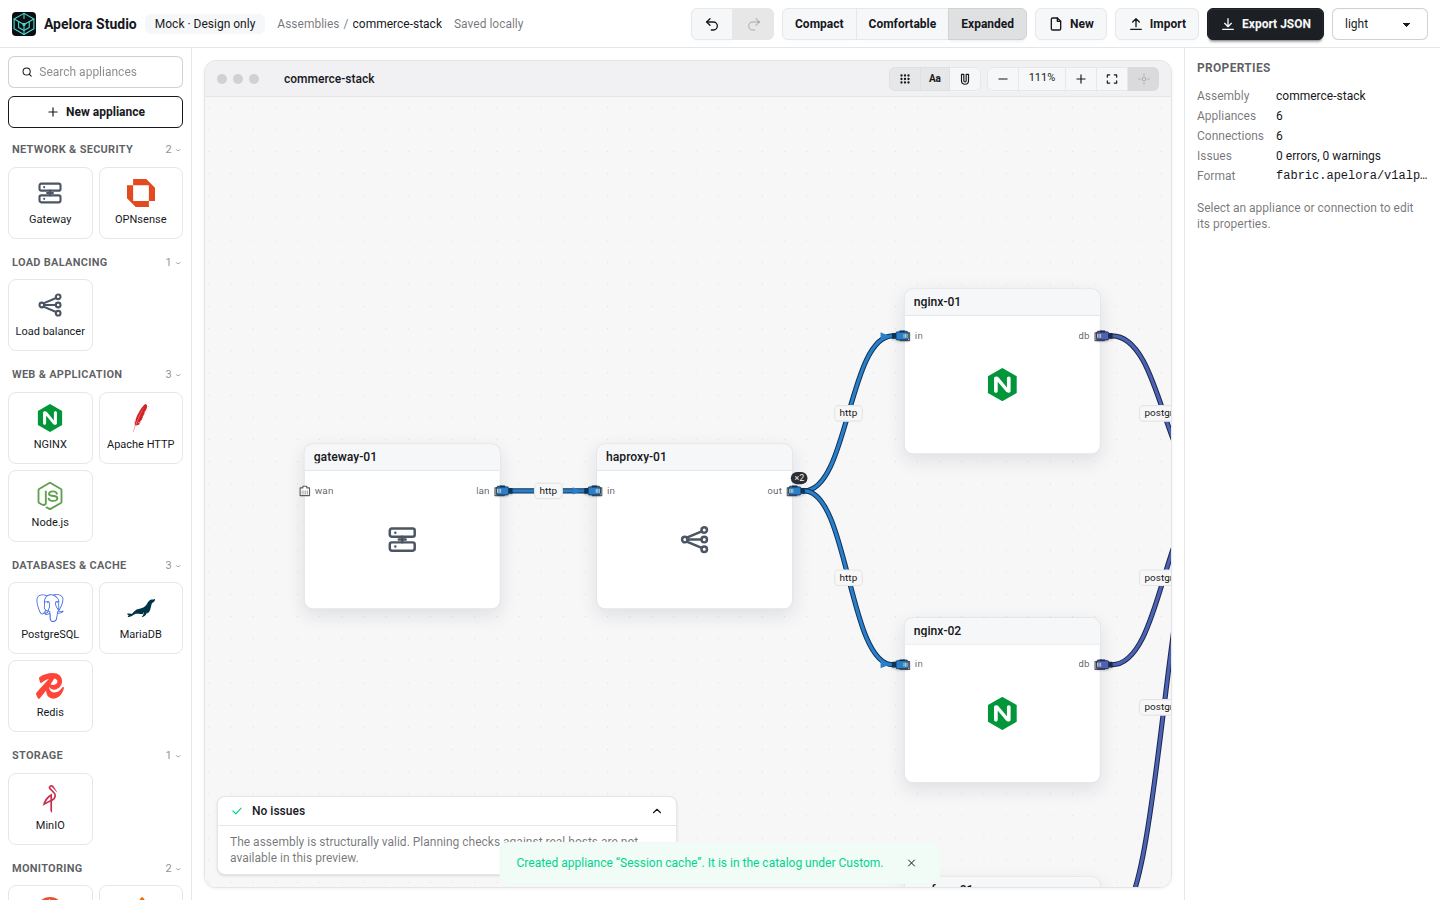
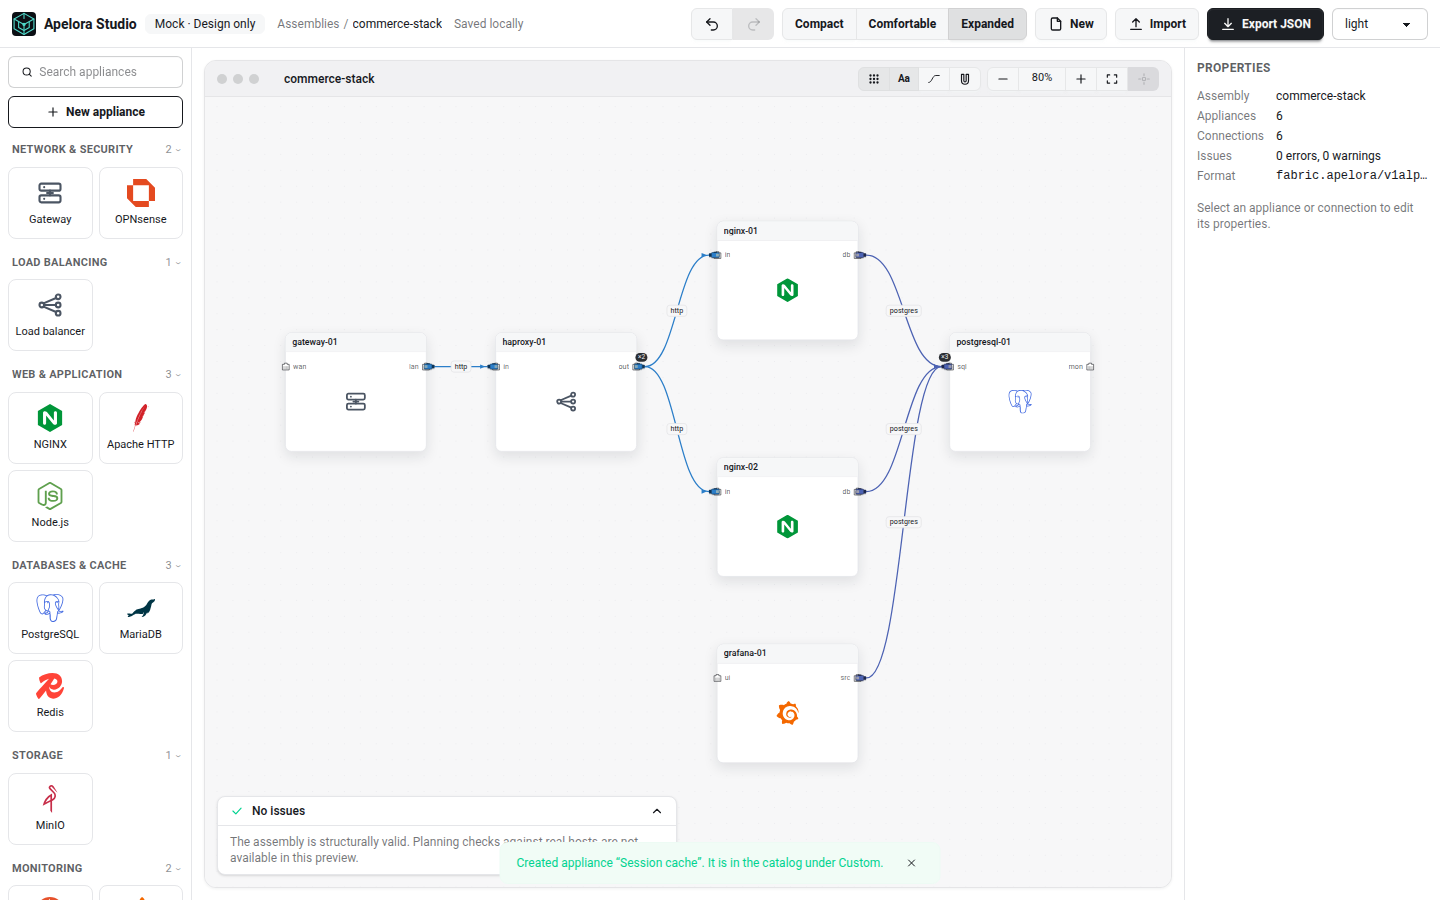
Studio: thin line cables by default with small plug heads; optional patch-cable style

diff --git a/apps/studio/src/styles/index.css b/apps/studio/src/styles/index.css
@@ -104,7 +104,13 @@ body { overflow: hidden; }
 .react-flow__resize-control.apl-resize-control { background: transparent; border: 0; width: 16px; height: 16px; transform: translate(-4px, -4px); }
 
 /* ---- cables ---- */
-.react-flow__edge .apl-cable { stroke-linecap: round; fill: none; }
+.react-flow__edge .apl-cable { stroke-linecap: round; fill: none; stroke-width: 1.6; }
+.react-flow__edge.selected .apl-cable, .react-flow__edge:hover .apl-cable { stroke-width: 2.4; }
+.react-flow__edge .apl-cable-outline { stroke-width: 0; }
+/* Optional heavier patch-cable look. */
+.apl-canvas-frame[data-cable="cable"] .react-flow__edge .apl-cable { stroke-width: 2.8; }
+.apl-canvas-frame[data-cable="cable"] .react-flow__edge .apl-cable-outline { stroke-width: 4.6; }
+.apl-canvas-frame[data-cable="cable"] .react-flow__edge.selected .apl-cable-outline { stroke-width: 5.6; }
 .react-flow__edge:hover .apl-cable-outline, .react-flow__edge.selected .apl-cable-outline { filter: drop-shadow(0 0 3px color-mix(in oklab, var(--color-base-content) 35%, transparent)); }
 .react-flow__edge .apl-cable-outline { stroke-linecap: round; transition: filter 120ms ease; }
 .apl-cable-invalid { stroke-dasharray: 6 4; }
@@ -113,9 +119,9 @@ body { overflow: hidden; }
   position: absolute; pointer-events: none; font-size: 9px; line-height: 1; padding: 2px 4px; border-radius: 4px;
   background: var(--apl-canvas); border: 1px solid var(--apl-canvas-border); color: var(--color-base-content);
 }
-.apl-plug { position: absolute; top: 50%; width: 16px; height: 10px; transform: translateY(-50%); pointer-events: none; overflow: visible; filter: drop-shadow(0 1px 1px rgba(20,28,38,0.25)); }
-.apl-plug[data-side="input"] { left: -7px; }
-.apl-plug[data-side="output"] { right: -7px; transform: translateY(-50%) scaleX(-1); }
+.apl-plug { position: absolute; top: 50%; width: 14px; height: 9px; transform: translateY(-50%); pointer-events: none; overflow: visible; filter: drop-shadow(0 1px 1px rgba(20,28,38,0.25)); }
+.apl-plug[data-side="input"] { left: -6px; }
+.apl-plug[data-side="output"] { right: -6px; transform: translateY(-50%) scaleX(-1); }
 .apl-plug-count {
   position: absolute; top: -12px; font-size: 8px; line-height: 1; padding: 1.5px 3px; border-radius: 6px; pointer-events: none;
   background: var(--color-neutral); color: var(--color-neutral-content);

diff --git a/apps/studio/src/components/canvas/CableEdge.tsx b/apps/studio/src/components/canvas/CableEdge.tsx
@@ -5,7 +5,7 @@ export type CableData = { type: string; label?: string; invalid?: boolean; [key:
 export type CableFlowEdge = Edge<CableData, "cable">;
 
 /** A patch cable: coloured by protocol, with a flow arrow near its target plug. The plug heads live in the nodes. */
-export function CableEdge({ id, sourceX, sourceY, targetX, targetY, sourcePosition, targetPosition, selected, data }: EdgeProps<CableFlowEdge>) {
+export function CableEdge({ id, sourceX, sourceY, targetX, targetY, sourcePosition, targetPosition, data }: EdgeProps<CableFlowEdge>) {
   const sx = sourceX + CABLE_INSET;
   const tx = targetX - CABLE_INSET;
   const [path, lx, ly] = getBezierPath({ sourceX: sx, sourceY, sourcePosition, targetX: tx, targetY, targetPosition });
@@ -13,9 +13,9 @@ export function CableEdge({ id, sourceX, sourceY, targetX, targetY, sourcePositi
   const color = data?.invalid ? "var(--color-error)" : cableColor(type);
   return (
     <>
-      <path d={path} fill="none" className="apl-cable-outline" style={{ stroke: data?.invalid ? "var(--color-error)" : cableOutline(type), strokeWidth: selected ? 5.6 : 4.6 }} />
-      <BaseEdge id={id} path={path} interactionWidth={18} className={`apl-cable ${data?.invalid ? "apl-cable-invalid" : ""}`} style={{ stroke: color, strokeWidth: selected ? 3.6 : 2.8 }} />
-      <path d={`M ${tx - 11} ${targetY - 3.2} L ${tx - 3} ${targetY} L ${tx - 11} ${targetY + 3.2} Z`} fill={color} className="apl-cable-arrow" />
+      <path d={path} fill="none" className="apl-cable-outline" style={{ stroke: data?.invalid ? "var(--color-error)" : cableOutline(type) }} />
+      <BaseEdge id={id} path={path} interactionWidth={18} className={`apl-cable ${data?.invalid ? "apl-cable-invalid" : ""}`} style={{ stroke: color }} />
+      <path d={`M ${tx - 9} ${targetY - 2.6} L ${tx - 2.5} ${targetY} L ${tx - 9} ${targetY + 2.6} Z`} fill={color} className="apl-cable-arrow" />
       {data?.label && (
         <EdgeLabelRenderer>
           <div className="apl-link-label nodrag nopan" data-testid="link-label" style={{ transform: `translate(-50%, -50%) translate(${lx}px, ${ly}px)` }}>{data.label}</div>

diff --git a/apps/studio/src/components/canvas/CanvasStrip.tsx b/apps/studio/src/components/canvas/CanvasStrip.tsx
@@ -8,6 +8,7 @@ export function CanvasStrip({ zoom }: { zoom: number }) {
   const showGrid = useStudio((s) => s.showGrid);
   const snap = useStudio((s) => s.snap);
   const showLabels = useStudio((s) => s.showLabels);
+  const cableStyle = useStudio((s) => s.cableStyle);
   const selected = useStudio((s) => s.selection.nodes);
   const { zoomIn, zoomOut, fitView } = useReactFlow();
 
@@ -29,6 +30,7 @@ export function CanvasStrip({ zoom }: { zoom: number }) {
         <div className="join" role="group" aria-label="Canvas options">
           <button className={`btn btn-xs join-item ${showGrid ? "btn-active" : ""}`} aria-pressed={showGrid} title="Toggle dotted grid" aria-label="Toggle dotted grid" onClick={() => api.getState().setShowGrid(!showGrid)}><IconGrid size={14} /></button>
           <button className={`btn btn-xs join-item ${showLabels ? "btn-active" : ""}`} aria-pressed={showLabels} title="Show port and link labels" aria-label="Port and link labels" data-testid="toggle-labels" onClick={() => api.getState().setShowLabels(!showLabels)}><span className="text-[10px] font-semibold leading-none">Aa</span></button>
+          <button className={`btn btn-xs join-item ${cableStyle === "cable" ? "btn-active" : ""}`} aria-pressed={cableStyle === "cable"} title={cableStyle === "line" ? "Switch to thick patch-cable look" : "Switch to thin line look"} aria-label="Cable style" data-testid="toggle-cable-style" onClick={() => api.getState().setCableStyle(cableStyle === "line" ? "cable" : "line")}><svg width="14" height="14" viewBox="0 0 24 24" fill="none" stroke="currentColor" strokeWidth={cableStyle === "cable" ? 4 : 1.6} strokeLinecap="round" aria-hidden="true"><path d="M3 18C9 18 9 6 15 6h6" /></svg></button>
           <button className={`btn btn-xs join-item ${snap ? "btn-active" : ""}`} aria-pressed={snap} title="Snap to grid" aria-label="Snap to grid" onClick={() => api.getState().setSnap(!snap)}><IconMagnet size={14} /></button>
         </div>
         <div className="join" role="group" aria-label="Zoom">

diff --git a/apps/studio/src/components/canvas/AssemblyWorkspace.tsx b/apps/studio/src/components/canvas/AssemblyWorkspace.tsx
@@ -51,6 +51,7 @@ export function AssemblyWorkspace() {
   const selection = useStudio((s) => s.selection);
   const showGrid = useStudio((s) => s.showGrid);
   const showLabels = useStudio((s) => s.showLabels);
+  const cableStyle = useStudio((s) => s.cableStyle);
   const customClasses = useCustomCatalog((s) => s.classes);
   const snap = useStudio((s) => s.snap);
   const fitNonce = useStudio((s) => s.fitNonce);
@@ -192,7 +193,7 @@ export function AssemblyWorkspace() {
   const zoom = useRFStore((s) => s.transform[2]);
 
   return (
-    <section ref={frameRef} data-labels={showLabels ? "on" : "off"} className="apl-canvas-frame flex min-h-0 min-w-0 flex-1 flex-col" aria-label="Assembly canvas" data-testid="canvas-frame">
+    <section ref={frameRef} data-labels={showLabels ? "on" : "off"} data-cable={cableStyle} className="apl-canvas-frame flex min-h-0 min-w-0 flex-1 flex-col" aria-label="Assembly canvas" data-testid="canvas-frame">
       <CanvasStrip zoom={zoom} />
       <div className="relative min-h-0 flex-1" data-testid="canvas" onDragOver={onDragOver} onDrop={onDrop}>
         <ReactFlow<ApplianceFlowNode, CableFlowEdge>

diff --git a/apps/studio/src/features/editor/store.ts b/apps/studio/src/features/editor/store.ts
@@ -23,6 +23,7 @@ export interface StudioState {
   fitNonce: number;
   showGrid: boolean;
   showLabels: boolean;
+  cableStyle: "line" | "cable";
   snap: boolean;
   importErrors: string[] | null;
 
@@ -56,6 +57,7 @@ export interface StudioState {
   renameAssembly: (name: string) => void;
   setShowGrid: (v: boolean) => void;
   setShowLabels: (v: boolean) => void;
+  setCableStyle: (v: "line" | "cable") => void;
   setSnap: (v: boolean) => void;
   setImportErrors: (e: string[] | null) => void;
 }
@@ -82,6 +84,7 @@ export function createStudioStore(initial: ApplicationAssembly) {
       fitNonce: 0,
       showGrid: true,
       showLabels: true,
+      cableStyle: "line",
       snap: false,
       importErrors: null,
 
@@ -172,6 +175,7 @@ export function createStudioStore(initial: ApplicationAssembly) {
       },
       setShowGrid: (v) => set({ showGrid: v }),
       setShowLabels: (v) => set({ showLabels: v }),
+      setCableStyle: (v) => set({ cableStyle: v }),
       setSnap: (v) => set({ snap: v }),
       setImportErrors: (e) => set({ importErrors: e }),
     };

diff --git a/docs/architecture/STUDIO-MVP.md b/docs/architecture/STUDIO-MVP.md
@@ -42,6 +42,7 @@ One zustand store holds the whole assembly (immutable). History is a snapshot st
 ## Terminals, labels and custom appliances
 
 - Every terminal is an RJ45-style **socket** (hollow, latch notch, contact pins); inputs are on the left, outputs on the right. The 10px jack has an 18px pointer target.
+- **Cable style.** The default is a thin 1.6px coloured line with a small plug head at each end (clean at any density); a toolbar toggle switches to a heavier outlined patch-cable look.
 - **Cables plug in.** A connected socket shows an RJ45 plug head inserted into it, and the cable (muted colour by protocol: http blue, postgres indigo, redis red, …) leaves from the plug's strain relief with a small flow arrow near its target. Plug heads are rendered inside the node so they sit above the socket; the cable starts 6px beyond the jack edge, under the boot. Unplugged sockets stay hollow.
 - **Single vs multiple cables.** Each port has a multiplicity. `multi` (the default for new ports) accepts several cables into the same socket, shown as one plug with a `×N` count; `single` accepts one and rejects another with a reason. Toggle it per port in the inspector or the Appliance Designer.
 - **Re-plugging.** Drag a cable's plug end to another compatible socket to move it (validated; one undo step).
